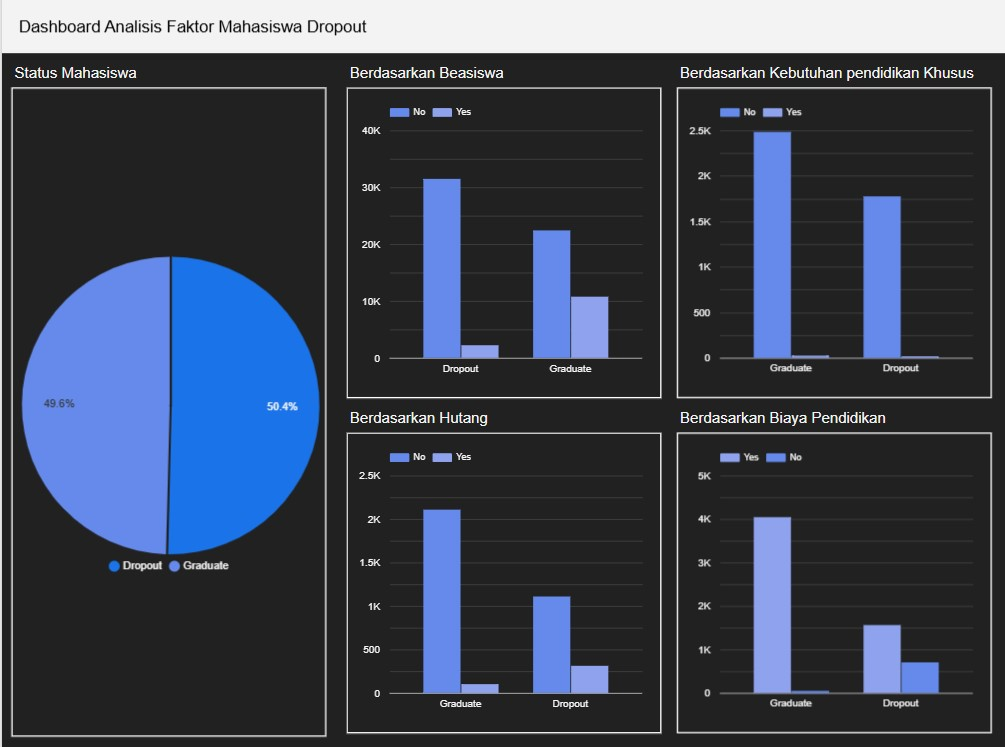
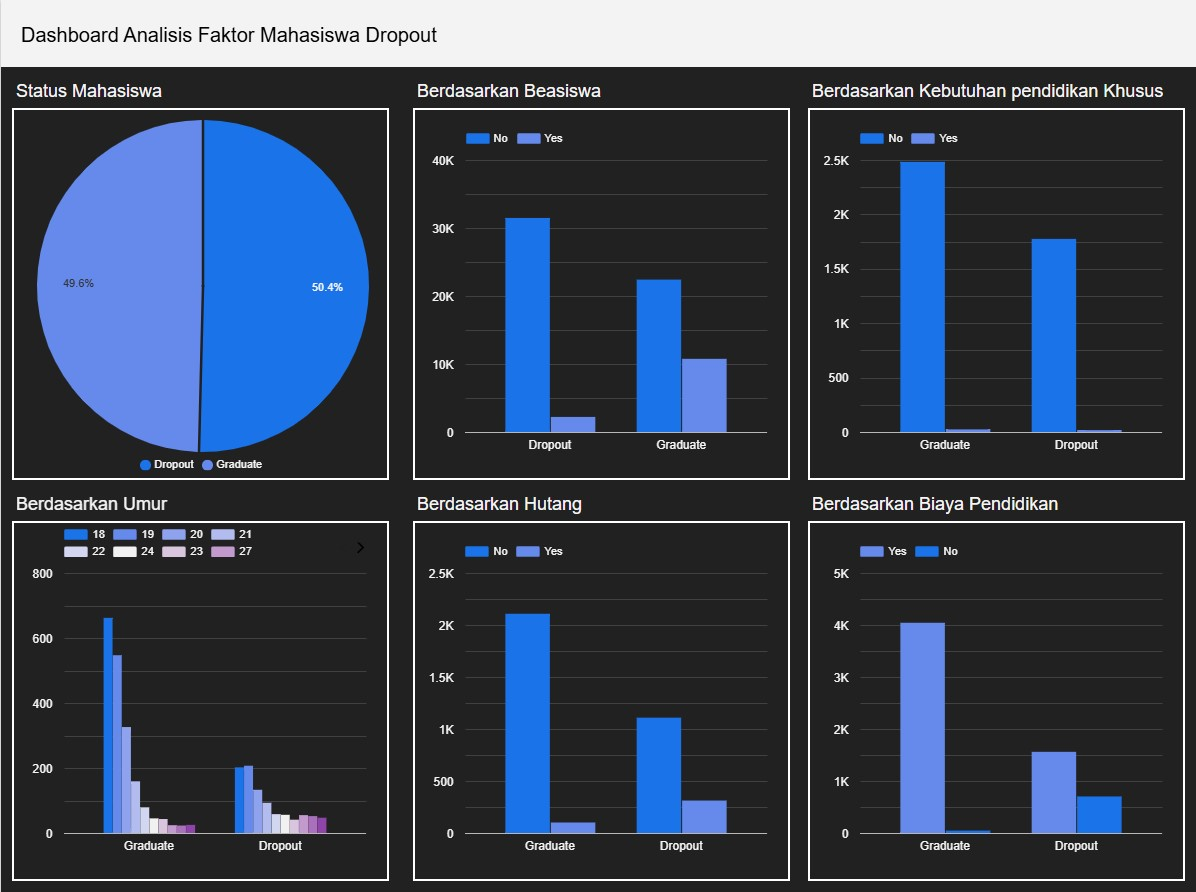
revisi 1

Changed region(s): [[0.0, 0.0308, 1.0, 1.0], [0.3085, 0.9545, 0.6478, 1.0]]

diff --git a/README.md b/README.md
@@ -1,81 +1,108 @@
-# Proyek Akhir: Menyelesaikan Permasalahan Perusahaan Edutech
+# Proyek Akhir: Prediksi Dropout Mahasiswa untuk EduTech
 
 ## Business Understanding
-
-Jaya Jaya Maju adalah perusahaan multinasional yang telah berdiri sejak tahun 2000 dan memiliki lebih dari 1000 karyawan di seluruh Indonesia. Meski telah berkembang pesat, perusahaan mengalami tantangan dalam mempertahankan karyawan. Tercatat, attrition rate (rasio karyawan keluar) telah mencapai lebih dari 10%, yang dapat mempengaruhi produktivitas dan efisiensi perusahaan.
-
-Manajer HR ingin memahami faktor-faktor apa yang menyebabkan tingginya tingkat keluar (attrition) karyawan dan mencari cara untuk mengelolanya lebih baik ke depan.
+Jaya Jaya Institut adalah institusi pendidikan tinggi yang telah berdiri sejak tahun 2000 dan telah meluluskan banyak mahasiswa berprestasi. Namun, salah satu tantangan terbesar yang dihadapi adalah tingginya angka siswa yang tidak menyelesaikan pendidikan alias dropout. Hal ini berdampak negatif terhadap reputasi institusi dan efektivitas proses belajar mengajar.
 
 ### Permasalahan Bisnis
-
-- Mengapa banyak karyawan yang keluar dari perusahaan?
-- Faktor-faktor apa yang paling berpengaruh terhadap keputusan karyawan untuk resign?
+- Tingginya angka dropout siswa dari program pendidikan.
+- Kurangnya sistem deteksi dini untuk memantau siswa berisiko dropout.
+- Tidak adanya visualisasi data yang membantu pengambilan keputusan manajerial.
 
 ### Cakupan Proyek
+- Melakukan eksplorasi dan analisis deskriptif terhadap data akademik dan demografis mahasiswa.
+- Membangun dashboard visual untuk membantu pihak manajemen memonitor faktor risiko dropout.
+- Pengembangan model machine learning untuk prediksi kemungkinan mahasiswa dropout.
+- Deployment sistem prediksi menggunakan Streamlit.
+- Memberikan rekomendasi kebijakan atau tindakan strategis berdasarkan hasil analisis dan model.
 
-- Melakukan data eksplorasi dan analisis terhadap data HR perusahaan.
-- Mengidentifikasi faktor-faktor utama yang berkorelasi dengan attrition.
-- Membuat business dashboard interaktif untuk HR agar bisa memantau kondisi SDM.
-- Membuat model machine learning prediktif untuk memprediksi attrition.
-- Memberikan rekomendasi strategis kepada manajemen HR.
-
-### Persiapan Proyek
+### Persiapan
 
 1. Dataset
-    - Lokasi: Menggunakan dataset employee_data.csv yang bisa diakses di repositori berikut: https://github.com/dicodingacademy/dicoding_dataset/tree/main/employee kemudian disimpan dengan nama employee_data.csv dan setelah dilakukan preprocessing hasilnya disimpan sebagai employee_data_cleaned.csv dan digunakan untuk visualisasi di Looker Studio.
-    - Deskripsi: Dataset berisi informasi demografis dan pekerjaan karyawan, termasuk flag apakah karyawan keluar (attrition = 1) atau tidak (attrition = 0). Dataset ini memiliki data sebanyak 1.470 baris data serta 35 kolom dan terdapat kolom yang memiliki missing value. Selanjutnya akan dilakukan proses preprocessing, Proses preprocessing dilakukan untuk mempersiapkan data agar dapat diolah dan divisualisasikan, guna membantu HR memahami faktor-faktor yang memengaruhi tingkat attrition karyawan.
-2. Membuat dan Mengaktifkan Virtual Environment
-    - Buka terminal lalu jalankan perintah berikut: 
-        ```
-        python -m venv venv
-        ```
-        - kemudian, jika menggunakan windows jalankan : 
+    - Lokasi: Menggunakan dataset data.csv yang bisa diakses di repositori berikut: https://github.com/dicodingacademy/dicoding_dataset/blob/main/students_performance/data.csv kemudian disimpan dengan nama data.csv dan setelah dilakukan preprocessing hasilnya digunakan untuk visualisasi di Looker Studio.
+    - Deskripsi: Dataset berisi informasi demografis dan informasi mengenai mahasiswa seperti usia saat masuk, gender, beasiswa, kebutuhan khusus, dll. Informasi ini termasuk status dari mahasiswa, apakah mahasiswa keluar (status = 1) atau tidak (status = 0). Dataset ini memiliki data sebanyak 4.424 baris data serta 37 kolom dan tidak terdapat kolom yang memiliki missing value. Selanjutnya akan dilakukan proses preprocessing, Proses preprocessing dilakukan untuk mempersiapkan data agar dapat diolah dan divisualisasikan, guna membantu untuk memahami faktor-faktor yang memengaruhi tingkat dropout mahasiswa.
+2. Setup Environment
+    * Membuat dan Mengaktifkan Virtual Environment
+        - Buka terminal lalu jalankan perintah berikut: 
             ```
-            venv\Scripts\activate
+            python -m venv venv
             ```
-        - atau jika menggunakan macOS/linux jalankan : 
+            - kemudian, jika menggunakan windows jalankan : 
+                ```
+                venv\Scripts\activate
+                ```
+            - atau jika menggunakan macOS/linux jalankan : 
+                ```
+                source venv/bin/activate
+                ```
+    * Menginstal Semua Dependensi
+        - untuk mencegah terjadinya error, kamu harus menginstall dependensi yang ada di file requirements.txt, bisa dijalankan dengan perintah berikut : 
             ```
-            source venv/bin/activate
+            pip install -r requirements.txt
             ```
-3. Menginstal Semua Dependensi
-    - untuk mencegah terjadinya error, kamu harus menginstall dependensi yang ada di file requirements.txt, bisa dijalankan dengan perintah berikut : 
+    * Menjalankan Skrip Python (notebook.py)
+        - Setelah virtual environment diaktifkan dan dependensi sudah diinstal, bisa menjalankan proyek ini langsung melalui file `notebook.py`. untuk perintah agar proyek bisa dijalankan sebagai berikut : 
+            ```
+            python notebook.py
+            ```
+        - Skrip ini akan secara otomatis:
+            - Membaca dataset data.csv
+            - Melakukan pembersihan dan preprocessing
+            - Membangun model prediksi attrition menggunakan Random Forest
+            - Menampilkan hasil evaluasi model
+
+
+## Business Dashboard
+Dashboard eksplorasi visual dibuat untuk mengidentifikasi fitur-fitur penting yang berhubungan dengan dropout, seperti:
+- Jumlah status mahasiswa → berdasarkan 2 status yaitu dropout dan graduate atau lulus selain enrolled, mahasiswa banyak yang terkena dropout dengan presentase 50.4%. sehingga terdapat beberapa faktor yang mempengaruhi tingkat ini antara lain : 
+    - Berdasarkan Umur saat masuk (Age_at_enrollment) → dropout memang tinggi pada umur yang lebih muda, namun bila dilihat perbandingan untuk umur 27 tahun, status mahasiswa kebanyakan didropout. 
+    - Berdasarkan beasiswa (Scholarship_holder) → mahasiswa yang tidak menerima beasiswa kebanyakan dropout, hal ini mungkin dipengaruhi oleh biaya pendidikan yang mahal. 
+    - Berdasarkan hutang (Debtor) → mahasiswa yang tidak memiliki hutang kebanyakan lulus, namun mahasiswa yang memiliki hutang rentang untuk dropout sehingga Kondisi finansial adalah faktor penting 
+    - Berdasarkan Faktor non-akademik seperti Kebutuhan Pendidikan Khusus(Educational_special_needs) → Meskipun jumlahnya kecil, kelompok kebutuhan pendidikan khusus tidak menunjukkan perbedaan signifikan terhadap dropout, tetapi tetap perlu perhatian khusus secara kualitas layanan.
+    - Berdasarkan biaya pendidikan yang tidak up-to-date dalam dalam pembayaran biaya kuliah memiliki tingkat dropout yang jauh lebih tinggi. Mahasiswa yang melunasi biaya kuliah tepat waktu memiliki angka kelulusan tinggi. Dibanding dengan Mahasiswa yang menunggak SPP menunjukkan dropout yang jauh lebih tinggi.
+
+![Image](https://github.com/user-attachments/assets/6bc2e443-8779-4780-b08c-b1809745d0ce)
+
+📎 Link dashboard: [https://lookerstudio.google.com/reporting/5eb578ac-8424-41c9-a71d-65595f60b554]
+
+
+## Menjalankan Sistem Machine Learning
+Model RandomForestClassifier digunakan untuk prediksi dropout berdasarkan fitur-fitur terpilih. Model mencapai performa sebagai berikut:
+
+| Accuracy  | Precision | Recall  | F1 Score |
+| ------------- | ------------- | ------------- | ------------- |
+| 90.36%  | 89.34%  | 85.56%  | 87.41%  |
+
+Model cukup andal dalam mengenali mahasiswa yang berisiko dropout, dengan F1-score >87%, menunjukkan keseimbangan yang baik antara presisi dan recall.
+
+📎 Tutorial dijalankan melalui lokal:
+   * pastikan sudah menginstall semua dependensi menggunakan : 
         ```
         pip install -r requirements.txt
         ```
-4. Menjalankan Skrip Python (notebook.py)
-    - Setelah virtual environment diaktifkan dan dependensi sudah diinstal, bisa menjalankan proyek ini langsung melalui file `notebook.py`. untuk perintah agar proyek bisa dijalankan sebagai berikut : 
+   * jalankan program difile streamlit_app.py
         ```
-        python notebook.py
+        streamlit run streamlit_app.py
         ```
-    - Skrip ini akan secara otomatis:
-        - Membaca dataset employee_data.csv
-        - Melakukan pembersihan dan preprocessing
-        - Menyimpan hasil ke employee_data_cleaned.csv
-        - Membangun model prediksi attrition menggunakan Logistic Regression dan Random Forest
-        - Menampilkan hasil evaluasi model
+   * streamlit otomatis akan berjalan dibrowser
+   
 
-## Business Dashboard
+📎 Link deploy streamlit: [https://dashboard-college.streamlit.app/]
 
-Business dashboard dibuat menggunakan Looker Studio untuk memudahkan manajemen HR dalam memantau:
-- Tingkat attrition secara keseluruhan
-- Distribusi attrition berdasarkan:
-    - Departemen : Keterkaitan antara departemen dengan banyaknya pegawai yang resign
-    - Job Role : Keterkaitan antara peran pekerjaan dengan banyaknya pegawai yang resign
-    - Job Satisfaction : Keterkaitan antara kenyamanan bekerja dengan banyaknya pegawai yang resign
-    - Range Overtime : Keterkaitan antara waktu lembur dengan banyaknya pegawai yang resign
-    - Perbandingan antara karyawan yang bertahan dan yang keluar
-
-![Image](https://github.com/user-attachments/assets/4450f8b7-1ae4-4de2-9c5e-bbb8b3d1cfcd)
-
-📎 Link dashboard: [https://lookerstudio.google.com/reporting/33ae4310-b288-408e-9c72-fe0ec15a332e]
 
 ## Conclusion
+Dari hasil analisis, ditemukan beberapa faktor yang memiliki korelasi tinggi terhadap kemungkinan mahasiswa dropout : 
+- Umur : mahasiswa yang dropout kemungkinan terjadi pada umur yang sudah tua, kemungkinan dipengaruhi oleh faktor tanggung jawab tambahan (kerja, keluarga).
+- Beasiswa : mahasiswa yang dropout kebanyakan tidak menerima beasiswa, sehingga disini kemungkinan dipengaruhi oleh faktor finansial. 
+- Hutang : mahasiswa yang dropout rentang memiliki utang,sehingga Kondisi finansial adalah faktor penting 
+- Kebutuhan Pendidikan Khusus : tidak menunjukkan perbedaan signifikan terhadap dropout, tetapi tetap perlu perhatian khusus secara kualitas layanan.
+- Biaya pendidikan yang tidak up-to-date dalam dalam pembayaran biaya kuliah  : mahasiswa memiliki tingkat dropout yang jauh lebih tinggi, sehingga disini kemungkinan dipengaruhi oleh faktor finansial. 
 
-Dari hasil analisis, ditemukan beberapa faktor yang memiliki korelasi tinggi terhadap kemungkinan karyawan keluar:
+Dengan adanya proyek ini menunjukkan bahwa machine learning dapat digunakan secara efektif untuk memprediksi kemungkinan mahasiswa akan dropout. Dengan model prediksi yang memiliki akurasi tinggi dan dukungan visualisasi dashboard, pihak manajemen institusi kini memiliki alat bantu untuk:
+- Mengidentifikasi mahasiswa berisiko sejak awal
+- Meningkatkan kebijakan atau tindakan strategis berdasarkan hasil analisis.
 
-- Departemen : Karyawan dari departemen Research dan development cenderung lebih banyak yang resign, disusul dengan departemen sales. hal ini kemungkinan dikarenakan beban kerja yang terlalu banyak. Sehingga untuk mengatasinya mungkin dapat merekrut pegawai lagi untuk lebih menyetabilkan beban kerja antara karyawan satu dengan yang lain. 
-- OverTime: Karyawan yang sering lembur memiliki tingkat attrition lebih tinggi dari pada karyawan yang tidak lembur. Sehingga untuk mengatasinya mungkin dapat diberikan kompensasi ketika lembur atau membatasi jam kerja sehingga tidak sampai lembur.
-- Job Satisfaction : Karyawan dengan kenyamanan bekerja yang rendah cenderung lebih mudah resign. Hal ini mungkin berhubungan dengan overtime, sehingga untuk mengatasinya mungkin dapat diberikan fasilitas untuk menunjang kenyamanan dalam bekerja. 
-- Job Role: Laboratory Technican dan sales cenderung lebih mudah untuk resign mungkin dikarenakan beban kerja yang cukup berat. 
+Dashboard yang dibangun memungkinkan manajemen memantau metrik-metrik ini dan mengambil tindakan preventif lebih cepat.
 
-Dashboard yang dibangun memungkinkan HR memantau metrik-metrik ini dan mengambil tindakan preventif lebih cepat.
+### Rekomendasi Action Items
+- Evaluasi Finansial: Tindak lanjuti mahasiswa yang tertinggal dalam pembayaran karena berpotensi tinggi mengalami dropout.
+- Program Beasiswa dan Dukungan: Perluas cakupan beasiswa dan pendampingan psikososial bagi mahasiswa berisiko tinggi.
